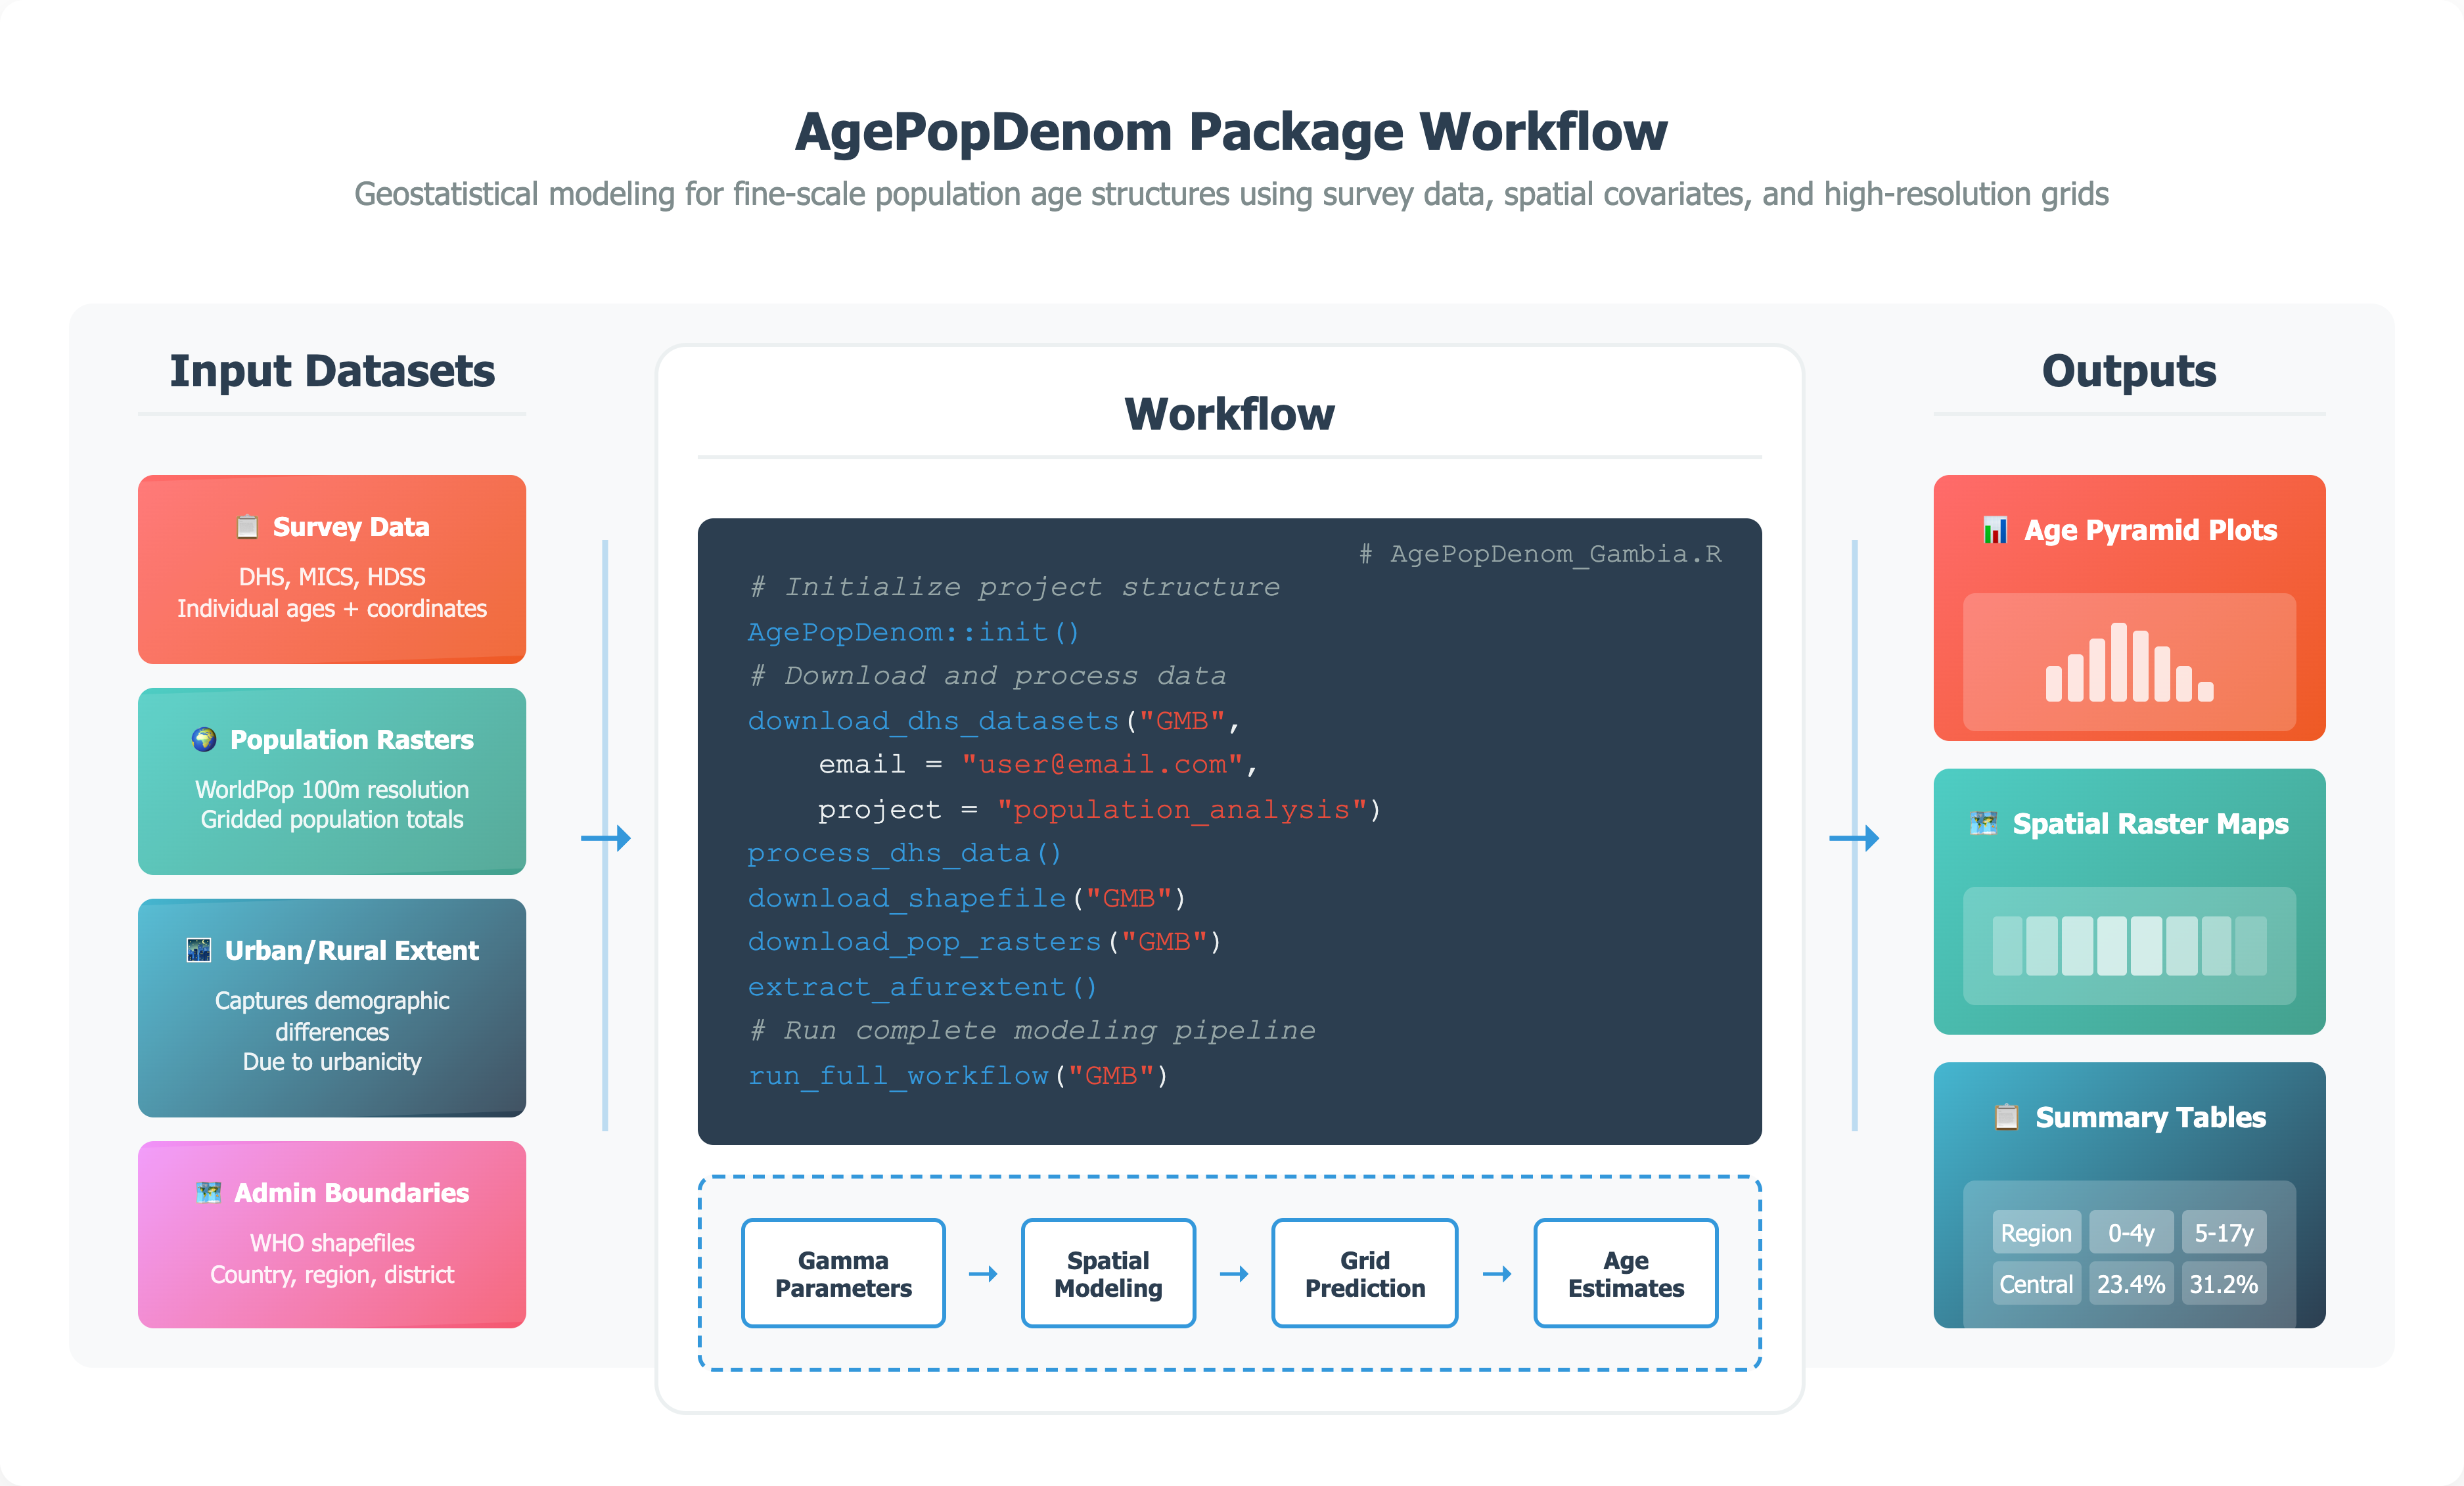
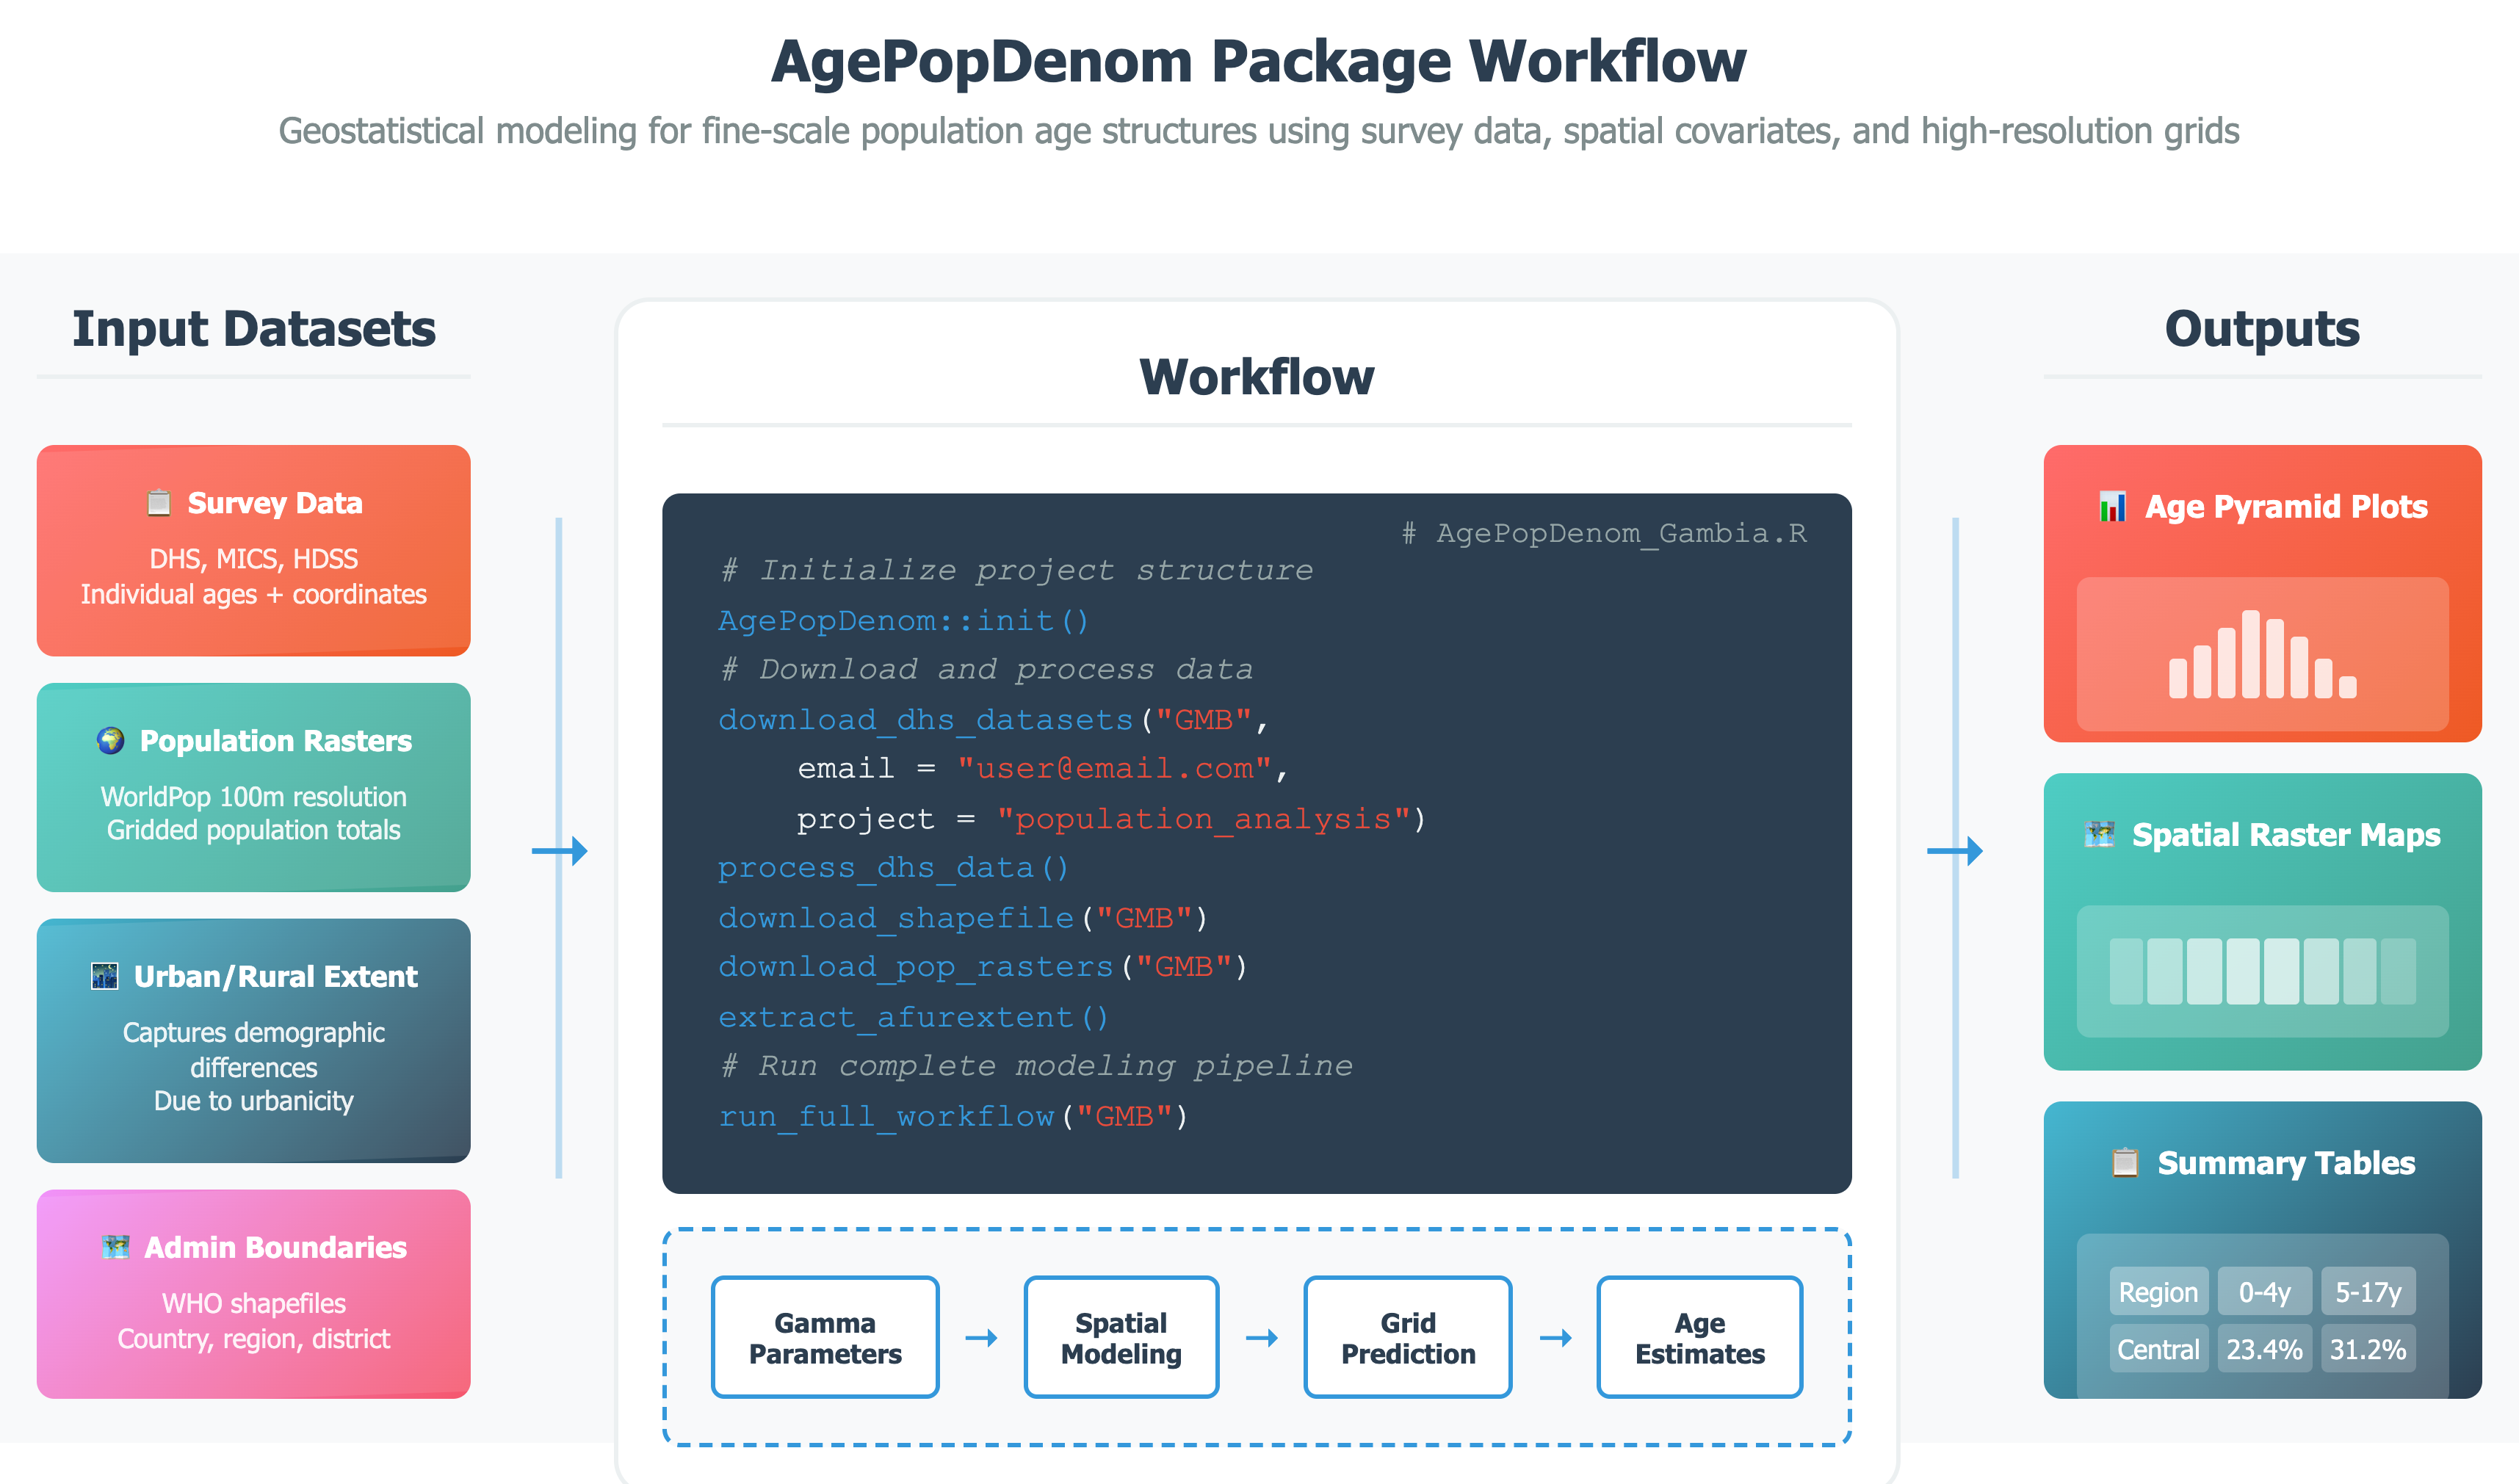
Address reviewer feedback: wrap long code line and trim figure margins

Changed region(s): [[0.0, 0.187, 0.9983, 0.9664], [0.1248, 0.0312, 0.9047, 0.1559]]

diff --git a/paper.md b/paper.md
@@ -85,7 +85,9 @@ The parameters are estimated via maximum likelihood as functions of a bivariate 
 # Note: Run within an RStudio Project for correct relative paths
 install.packages("AgePopDenom")
 AgePopDenom::init()
-AgePopDenom::download_dhs_datasets("GMB", email = "[email redacted]", project = "demo")
+AgePopDenom::download_dhs_datasets(
+  "GMB", email = "[email redacted]", project = "demo"
+)
 AgePopDenom::process_dhs_data()
 AgePopDenom::download_shapefile("GMB")
 AgePopDenom::download_pop_rasters("GMB")